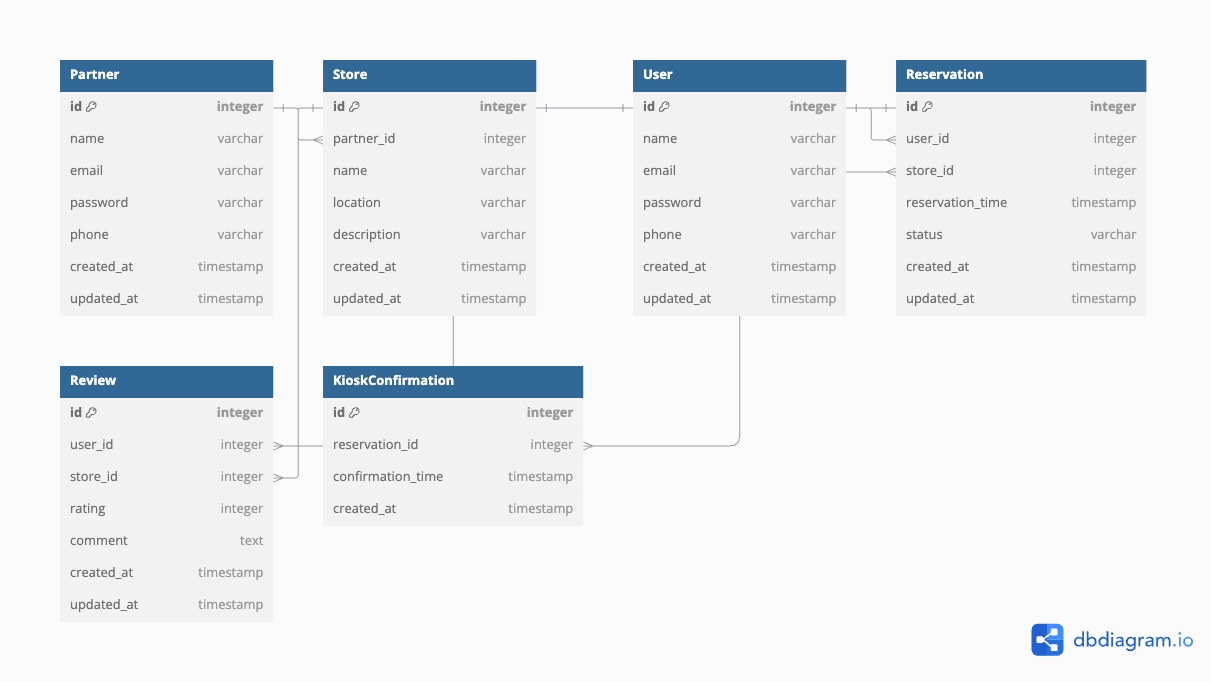
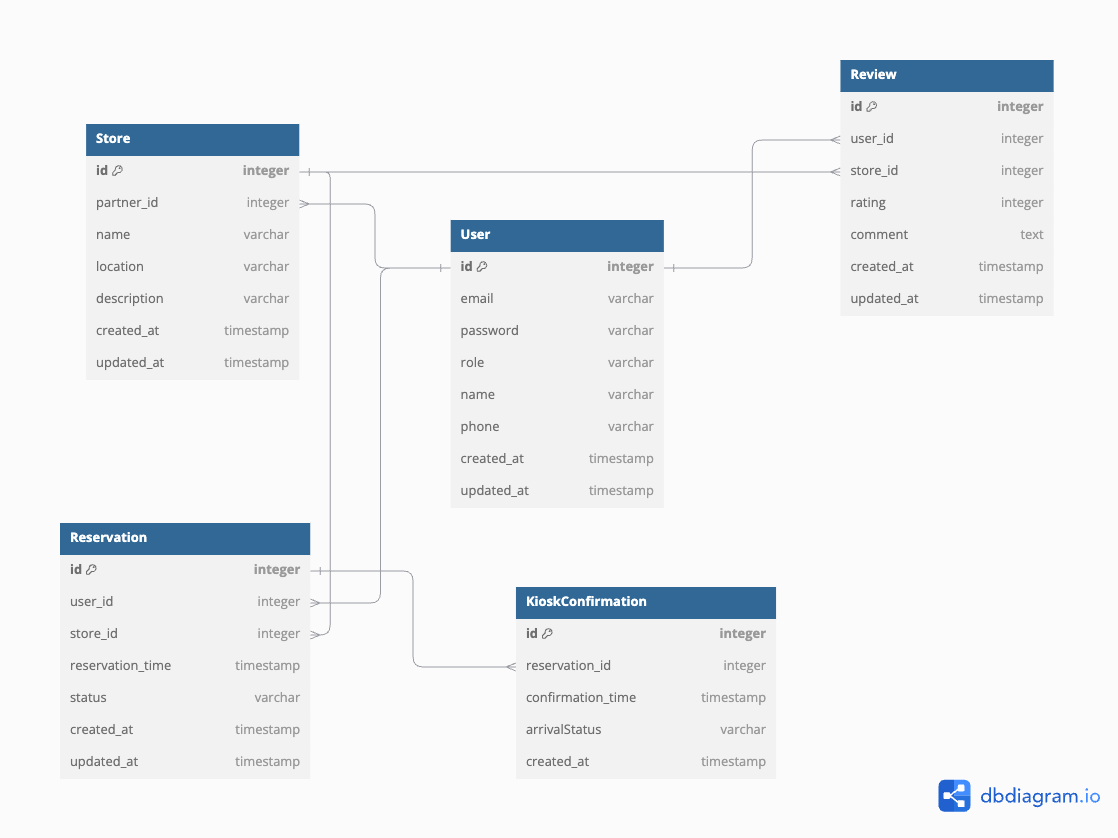
Fix: 도메인 수정

diff --git a/src/main/java/com/example/store_reservation_service/domain/User.java b/src/main/java/com/example/store_reservation_service/domain/User.java
@@ -1,5 +1,6 @@
 package com.example.store_reservation_service.domain;
 
+import com.example.store_reservation_service.domain.enums.Role;
 import jakarta.persistence.*;
 import lombok.*;
 
@@ -8,9 +9,10 @@ import java.time.LocalDateTime;
 /**
  * User
  * 서비스를 이용하는 고객 정보를 저장합니다.
- * - name: 고객의 이름
  * - email: 고객의 이메일
  * - password: 고객의 비밀번호
+ * - role: 고객 또는 매장 점장(USER or PARTNER)
+ * - name: 고객의 이름
  * - phone: 고객의 전화번호
  * - createdAt: 계정 생성 날짜
  * - updatedAt: 계정 마지막 업데이트 날짜
@@ -27,9 +29,6 @@ public class User {
     @GeneratedValue(strategy = GenerationType.IDENTITY)
     private Long id;
 
-    @Column(nullable = false)
-    private String name;
-
     @Column(nullable = false, unique = true)
     private String email;
 
@@ -37,12 +36,18 @@ public class User {
     private String password;
 
     @Column(nullable = false)
-    private String phone;
-
-    @Column(nullable = false, updatable = false)
-    private LocalDateTime createdAt = LocalDateTime.now();
+    @Enumerated(EnumType.STRING)
+    private Role role;
 
     @Column(nullable = false)
+    private String name;
+
+    @Column(nullable = false)
+    private String phone;
+
+    @Column(updatable = false)
+    private LocalDateTime createdAt = LocalDateTime.now();
+
     private LocalDateTime updatedAt = LocalDateTime.now();
 
     @PreUpdate

diff --git a/src/main/java/com/example/store_reservation_service/domain/KioskConfirmation.java b/src/main/java/com/example/store_reservation_service/domain/KioskConfirmation.java
@@ -1,5 +1,6 @@
 package com.example.store_reservation_service.domain;
 
+import com.example.store_reservation_service.domain.enums.ArrivalStatus;
 import jakarta.persistence.*;
 import lombok.*;
 
@@ -7,9 +8,10 @@ import java.time.LocalDateTime;
 
 /**
  * KioskConfirmation
- * 키오스크를 통한 예약 확인 정보를 저장합니다.
+ * 키오스크를 통해 해당 예약의 도착 여부를 기록합니다.
  * - reservation: 확인된 예약 정보
  * - confirmationTime: 확인된 시간
+ * - arrivalStatus: 도착 확인 상태
  * - createdAt: 확인 정보 생성 날짜
  */
 @Entity
@@ -29,8 +31,12 @@ public class KioskConfirmation {
     private Reservation reservation;
 
     @Column(nullable = false)
+    @Enumerated(EnumType.STRING)
+    private ArrivalStatus arrivalStatus = ArrivalStatus.ARRIVED;
+
+    @Column(nullable = false)
     private LocalDateTime confirmationTime;
 
-    @Column(nullable = false, updatable = false)
+    @Column(updatable = false)
     private LocalDateTime createdAt = LocalDateTime.now();
 }

diff --git a/src/main/java/com/example/store_reservation_service/domain/Reservation.java b/src/main/java/com/example/store_reservation_service/domain/Reservation.java
@@ -1,5 +1,6 @@
 package com.example.store_reservation_service.domain;
 
+import com.example.store_reservation_service.domain.enums.Status;
 import jakarta.persistence.*;
 import lombok.*;
 
@@ -11,7 +12,7 @@ import java.time.LocalDateTime;
  * - user: 예약한 고객
  * - store: 예약된 매장
  * - reservationTime: 예약 시간
- * - status: 예약 상태 (PENDING, CONFIRMED, CANCELLED 등)
+ * - status: 예약 상태 (PENDING, CONFIRMED, CANCELLED)
  * - createdAt: 예약 생성 날짜
  * - updatedAt: 예약 정보 마지막 업데이트 날짜
  */
@@ -39,12 +40,12 @@ public class Reservation {
     private LocalDateTime reservationTime;
 
     @Column(nullable = false)
-    private String status;
+    @Enumerated(EnumType.STRING)
+    private Status status = Status.PENDING;
 
-    @Column(nullable = false, updatable = false)
+    @Column(updatable = false)
     private LocalDateTime createdAt = LocalDateTime.now();
 
-    @Column(nullable = false)
     private LocalDateTime updatedAt = LocalDateTime.now();
 
     @PreUpdate

diff --git a/src/main/java/com/example/store_reservation_service/domain/Store.java b/src/main/java/com/example/store_reservation_service/domain/Store.java
@@ -11,7 +11,7 @@ import java.time.LocalDateTime;
  * - name: 매장의 이름
  * - location: 매장의 위치
  * - description: 매장에 대한 설명
- * - partner: 매장을 등록한 점장
+ * - partner: 매장을 등록한 점장 (role=PARTNER)
  * - createdAt: 매장 등록 날짜
  * - updatedAt: 매장 정보 마지막 업데이트 날짜
  */
@@ -29,7 +29,7 @@ public class Store {
 
     @ManyToOne
     @JoinColumn(name = "partner_id", nullable = false)
-    private Partner partner;
+    private User partner;
 
     @Column(nullable = false)
     private String name;
@@ -40,10 +40,9 @@ public class Store {
     @Column(length = 1000)
     private String description;
 
-    @Column(nullable = false, updatable = false)
+    @Column(updatable = false)
     private LocalDateTime createdAt = LocalDateTime.now();
 
-    @Column(nullable = false)
     private LocalDateTime updatedAt = LocalDateTime.now();
 
     @PreUpdate

diff --git a/src/main/java/com/example/store_reservation_service/domain/Review.java b/src/main/java/com/example/store_reservation_service/domain/Review.java
@@ -36,15 +36,14 @@ public class Review {
     private Store store;
 
     @Column(nullable = false)
-    private Integer rating;
+    private int rating;
 
     @Column(length = 1000)
     private String comment;
 
-    @Column(nullable = false, updatable = false)
+    @Column(updatable = false)
     private LocalDateTime createdAt = LocalDateTime.now();
 
-    @Column(nullable = false)
     private LocalDateTime updatedAt = LocalDateTime.now();
 
     @PreUpdate

diff --git a/src/main/java/com/example/store_reservation_service/domain/enums/Role.java b/src/main/java/com/example/store_reservation_service/domain/enums/Role.java
@@ -1,0 +1,6 @@
+package com.example.store_reservation_service.domain.enums;
+
+public enum Role {
+    USER,       // 일반 사용자
+    PARTNER     // 매장 점장
+}

diff --git a/src/main/java/com/example/store_reservation_service/domain/enums/Status.java b/src/main/java/com/example/store_reservation_service/domain/enums/Status.java
@@ -1,0 +1,7 @@
+package com.example.store_reservation_service.domain.enums;
+
+public enum Status {
+    PENDING,
+    CONFIRMED,
+    CANCELLED
+}

diff --git a/src/main/java/com/example/store_reservation_service/domain/enums/ArrivalStatus.java b/src/main/java/com/example/store_reservation_service/domain/enums/ArrivalStatus.java
@@ -1,0 +1,6 @@
+package com.example.store_reservation_service.domain.enums;
+
+public enum ArrivalStatus {
+    ARRIVED,
+    NO_SHOW
+}
